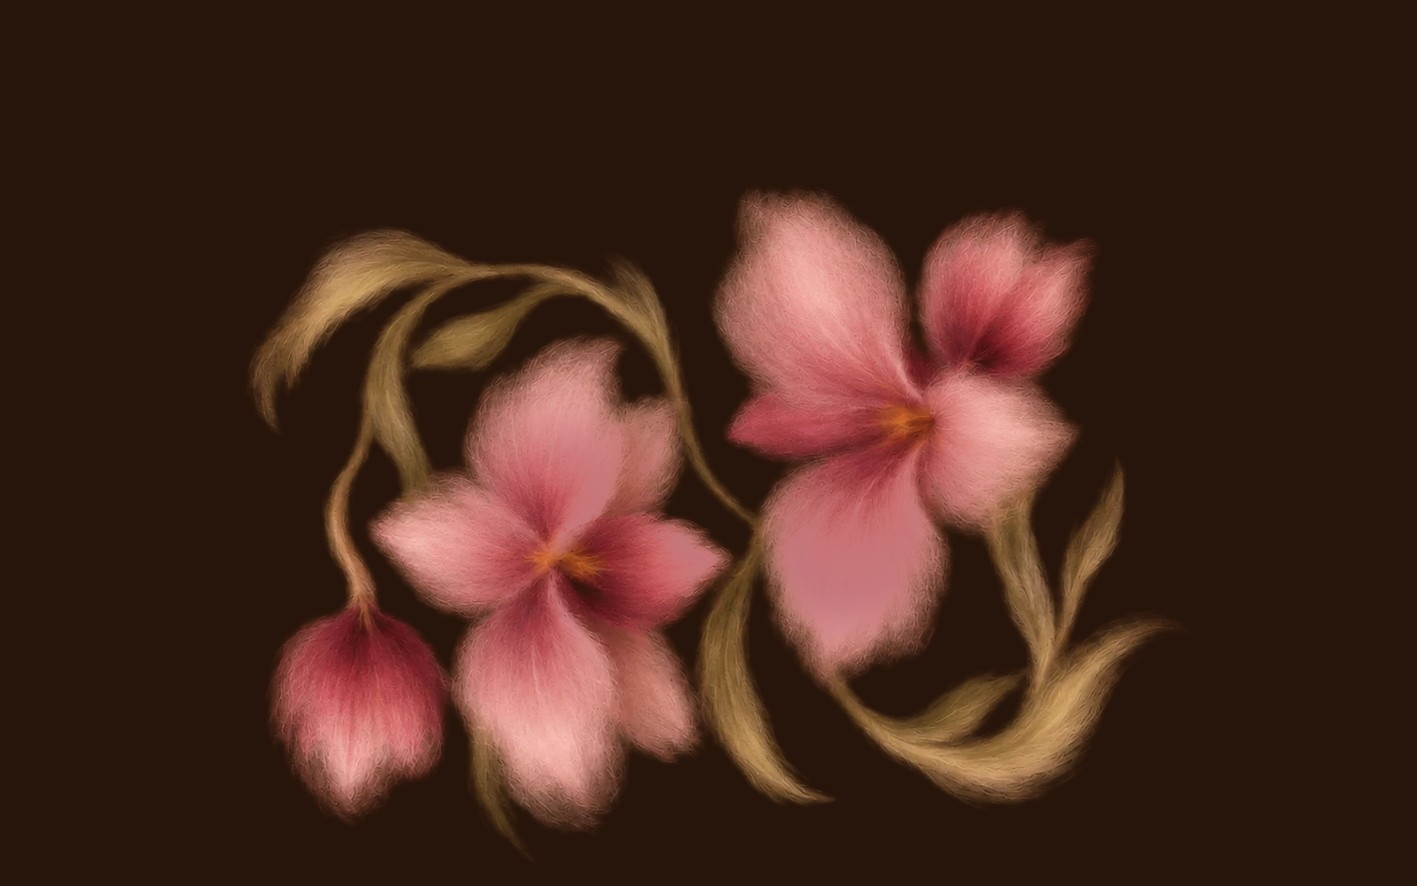
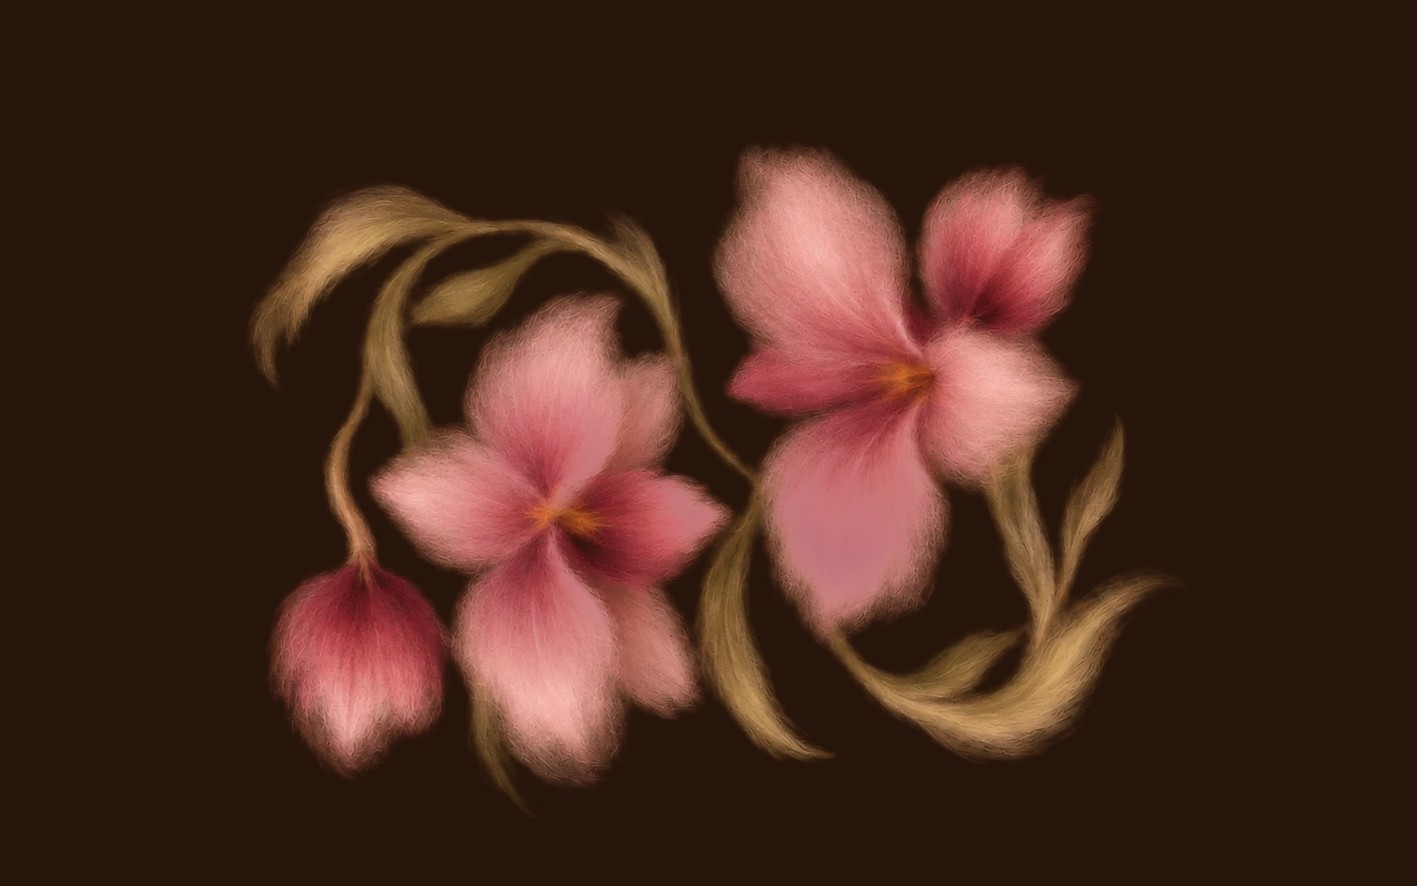
style: las flores de portada un pelin mas arriba

Changed region(s): [[0.1553, 0.1524, 0.8384, 0.9447]]

diff --git a/index.html b/index.html
@@ -119,8 +119,8 @@
             <!-- Las flores a pastel sobre fondo marron oscuro: en vertical en el movil
                  y giradas en horizontal en el ordenador, ocupando casi toda la pantalla. -->
             <picture>
-              <source media="(max-width: 820px)" srcset="assets/images/hero-flores-movil.jpg?v=6" />
-              <img class="hero__photo" src="assets/images/hero-flores-ordenador.jpg?v=6" alt="" />
+              <source media="(max-width: 820px)" srcset="assets/images/hero-flores-movil.jpg?v=7" />
+              <img class="hero__photo" src="assets/images/hero-flores-ordenador.jpg?v=7" alt="" />
             </picture>
           </div>
           <div class="hero__copy">
